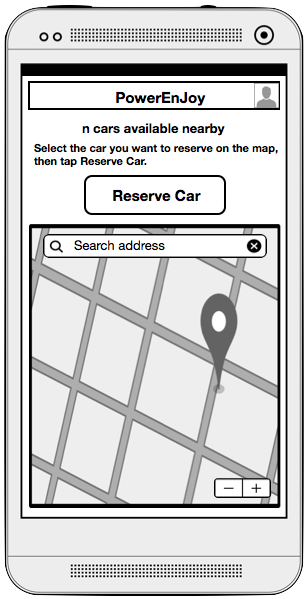
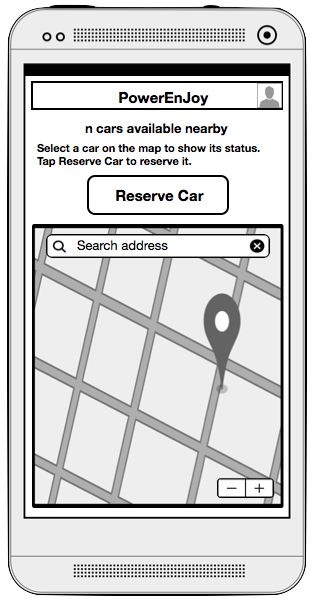
Improved consistency between Mockups and Requirements

diff --git a/RASD/4SpecificRequirements.tex b/RASD/4SpecificRequirements.tex
@@ -27,14 +27,14 @@ There are two user interfaces in our system: one for the smartphone used to acce
     \centering
     \includegraphics[scale=0.4]{{Figures/Mockup/3LoginForm.png}}
     \label{fig:3LoginForm}
-    \\Whether a user started from the map or from the first screen, he will have to either enter his credential or register. In case of forgotten credential he is given the possibility to ask for a new password too.
+    \\Whether a user started from the map or from the first screen, he will have to either enter his credentials or to register. In case of forgotten credentials he is given the possibility to ask for a new password too.
 \end{figure}
 
 \begin{figure}[p!]
     \centering
     \includegraphics[scale=0.4]{{Figures/Mockup/4CarReservationA}}
     \label{fig:4CarReservationA}
-    \\A PowerUser can look for a suitable Car nearby his position, or entering an address in the appropriate bar above the map. After finding a Car the PowerUser can reserve it.
+    \\A PowerUser can look for a suitable Car nearby his position or entering an address in the appropriate bar above the map. After finding a Car the PowerUser can reserve it.
 \end{figure}
 
 \begin{figure}[p!]
@@ -48,7 +48,7 @@ There are two user interfaces in our system: one for the smartphone used to acce
     \centering
     \includegraphics[scale=0.4]{{Figures/Mockup/5CarReserved.png}}
     \label{fig:5CarReserved}
-    \\After the selected Car has been reserved, a PowerUser can cancel his reservation or look for his Car thanks to the provided map.
+    \\After the selected Car has been reserved, a PowerUser can look for his Car thanks to the provided map or cancel his reservation. In this case a confirmation box pops up before actually cancelling it.
 \end{figure}
 
 \begin{figure}[p!]
@@ -70,14 +70,14 @@ There are two user interfaces in our system: one for the smartphone used to acce
     \centering
     \includegraphics[scale=0.4]{{Figures/Mockup/7RegistrationFormB.png}}
     \label{fig:7RegistrationFormB}
-    \\In order to stress the importance of entering real and correct data, the system reminds the user about it.
+    \\After entering persona data the user is required to provide his driving license details and to accept the Privacy Agreement.
 \end{figure}
 
 \begin{figure}[p!]
     \centering
     \includegraphics[scale=0.4]{{Figures/Mockup/7RegistrationFormC.png}}
     \label{fig:7RegistrationFormCnForm}
-    \\Last page of the registration procedure, the user is asked for his payment information. Furthermore he will have to accept the terms and conditions of the service in order to complete the registration.
+    \\Last page of the registration procedure, the user is asked for his payment information. Furthermore he has to accept the Terms and Conditions of the service in order to complete the registration. These Terms and Conditions contain all the legal constraints required by law, and ensure that any misbehaviour perpetrated by a user is his own solely responsibility and cannot be ascribed to the company running the PowerEnJoy sharing service.
 \end{figure}
 
 \begin{figure}[p!]
@@ -110,42 +110,42 @@ There are two user interfaces in our system: one for the smartphone used to acce
     \centering
     \includegraphics[scale=0.6]{{Figures/Mockup/11FirstCarScreen.png}}
     \label{fig:11FirstCarScreen}
-    \\This is the first screen a PowerUser will see when entering in a Car. The map on the left is a placeholder for the third party navigation system.
+    \\This is the first screen a PowerUser will see while entering in a Car. The map on the left is a placeholder for the third party navigation system.
 \end{figure}
 
 \begin{figure}[p!]
     \centering
     \includegraphics[scale=0.6]{{Figures/Mockup/12aCorrectDestination.png}}
     \label{fig:12aCorrectDestination}
-    \\A PowerUser searches for his destination and if it is inside the set of Safe Parking Areas he is allowed to start the navigation system.
+    \\A PowerUser searches for his destination and if it is inside the set of Safe Parking Areas he is allowed to start the navigation system. Furthermore he can enable the money saving option using "Get money saving destination", or ask for the list of the closest Special Parking Areas to his destination.
 \end{figure}
 
 \begin{figure}[p!]
     \centering
     \includegraphics[scale=0.6]{{Figures/Mockup/12bWrongDestination.png}}
     \label{fig:12bWrongDestination}
-    \\A PowerUser search for his destination and if it is not inside the set of Safe Parking Areas he is asked to look for another destination.
+    \\A PowerUser searches for his destination and if it is not inside the set of Safe Parking Areas he is asked to look for another destination. If he wants he can enable the money saving option using "Get money saving destination", or ask for the list of the closest Special Parking Areas to his destination.
 \end{figure}
 
 \begin{figure}[p!]
     \centering
     \includegraphics[scale=0.6]{{Figures/Mockup/12cMoneySavingOption.png}}
     \label{fig:12cMoneySavingOption}
-    \\When a PowerUser enables the money saving option he is provided with the address of the Special Parking Area where he is supposed to park and plug the car into the power grid.
+    \\When a PowerUser enables the money saving option he is provided with the address of the Special Parking Area where he is supposed to park and plug the car into the power grid in order to get the discount.
 \end{figure}
 
 \begin{figure}[p!]
     \centering
     \includegraphics[scale=0.6]{{Figures/Mockup/13Ride.png}}
     \label{fig:13Ride}
-    \\This is the screen the PowerUser sees while he is driving. If he needs to change the destination he is free to do that, or if he wants to know more about discounts and penalties he can tap the apposite button.
+    \\This is the screen the PowerUser sees while he is driving. If he needs to change the destination he is free to do that, if he wants to know more about discounts and penalties he can tap the apposite button, if he decides to plug the car into the power grid he can ask a money saving destination or the list of the closest Special Parking Areas to his destination.
 \end{figure}
 
-\begin{figure}[p!]
+\begin{figure}[h!]
     \centering
-    \includegraphics[scale=0.6]{{Figures/Mockup/14DIscountsAndPenalties.png}}
-    \label{fig:14DIscountsAndPenalties}
-    \\This is the screen that sums up all discounts and penalties, and it also declares explicitly which one is valid at the moment. If a PowerUser needs a more detailed description he just have to tap to show a windows containing all the details and the explanation of each discount and penalty.  
+    \includegraphics[scale=0.6]{{Figures/Mockup/14DiscountsAndPenalties.png}}
+    \label{fig:14DiscountsAndPenalties}
+    \\This is the screen that sums up all discounts and penalties, and it also declares explicitly which one is valid at the moment. If a PowerUser needs a more detailed description he just have to tap to show a window containing all the details and the explanations of each discount and penalty.  
 \end{figure}
 
 \newpage
@@ -191,7 +191,7 @@ The system relies on a third party payment service to issue payment requests, an
         \item Requirements
         \begin{enumerate}[REQ]
     		    \item Let a Visitor user start the registration wizard while he's still not logged in.
-			    \item The registration form must contain input fields for user identity, email, contact info, driving license number and expiration, privacy agreement confirmation, customer notifications and subscriptions options, credit card number and expiration, billing identity.
+			    \item The registration form must contain input fields for user identity, email, contact info, driving license number and expiration, privacy agreement confirmation, credit card number and expiration, billing identity.
 			    \item The chosen email address must not be already used by another PowerUser.
 			    \item The credit card must be verified not to be blocked or expired upon registration.
 			    \item The user must receive a system generated password to the registered email address.
@@ -392,8 +392,8 @@ The system relies on a third party payment service to issue payment requests, an
     \begin{itemize}
         \item Requirements
         \begin{enumerate}[REQ]
-    			\item While a ride destination is selected for navigation, show the PowerUser the option to get a money saving destination proposal.
-    			\item Always show to PowerUser an input to get money saving proposal even if there exists a selected destination.
+    			\item Show the PowerUser the option to get a money saving destination alternative after entering desired destination address.
+    			\item Always show to PowerUser an input to get money saving proposal even if there already exists a selected destination.
     			\item The destination proposal must correspond to the nearest (w.r.t. PowerUser selected destination) Special Parking Area where there are less than N\# Cars attached to the power source.
     			\item If the PowerUser accepts the money saving destination proposal, the current selected destination must be updated accordingly.
         \end{enumerate}
@@ -447,7 +447,7 @@ The system relies on a third party payment service to issue payment requests, an
         \begin{enumerate}[REQ]
     			\item The system must charge the PowerUser the total fare after two minutes and an half from the Car locking.
     			\item The system must issue the payment request to the payment processor provider.	
-    			\item The system must bill the PowerUser a penalty of 1$\euro$ as soon as a reservation he made expires ny timeout.
+    			\item The system must bill the PowerUser a penalty of 1$\euro$ as soon as a reservation he made expires by timeout.
     			\item The PowerUser shall be notified of any money charge by email.
     			\item The PowerUser shall be notified of the payment transaction result.
         \end{enumerate}
@@ -477,9 +477,9 @@ The system relies on a third party payment service to issue payment requests, an
 \hline
 \textbf{Output Condition} & conditionExplanation\\
 \hline
-\textbf{Exceptions} &       •   ex1.\\& 
-                            •	ex2.\\&
-                            •	ex3.\\& 
+\textbf{Exceptions} &       ?   ex1.\\& 
+                            ?	ex2.\\&
+                            ?	ex3.\\& 
                            How expections are managed.\\
 \hline
 \end{tabular} 
@@ -500,9 +500,9 @@ The system relies on a third party payment service to issue payment requests, an
 \hline
 \textbf{Output Condition} & conditionExplanation\\
 \hline
-\textbf{Exceptions} &       •   ex1.\\& 
-                            •	ex2.\\&
-                            •	ex3.\\& 
+\textbf{Exceptions} &       ?   ex1.\\& 
+                            ?	ex2.\\&
+                            ?	ex3.\\& 
                            How expections are managed.\\
 \hline
 \end{tabular} 
@@ -524,9 +524,9 @@ The system relies on a third party payment service to issue payment requests, an
 \hline
 \textbf{Output Condition} & conditionExplanation\\
 \hline
-\textbf{Exceptions} &       •   ex1.\\& 
-                            •	ex2.\\&
-                            •	ex3.\\& 
+\textbf{Exceptions} &       ?   ex1.\\& 
+                            ?	ex2.\\&
+                            ?	ex3.\\& 
                            How expections are managed.\\
 \hline
 \end{tabular} 
@@ -548,9 +548,9 @@ The system relies on a third party payment service to issue payment requests, an
 \hline
 \textbf{Output Condition} & conditionExplanation\\
 \hline
-\textbf{Exceptions} &       •   ex1.\\& 
-                            •	ex2.\\&
-                            •	ex3.\\& 
+\textbf{Exceptions} &       ?   ex1.\\& 
+                            ?	ex2.\\&
+                            ?	ex3.\\& 
                            How expections are managed.\\
 \hline
 \end{tabular} 
@@ -572,9 +572,9 @@ The system relies on a third party payment service to issue payment requests, an
 \hline
 \textbf{Output Condition} & conditionExplanation\\
 \hline
-\textbf{Exceptions} &       •   ex1.\\& 
-                            •	ex2.\\&
-                            •	ex3.\\& 
+\textbf{Exceptions} &       ?   ex1.\\& 
+                            ?	ex2.\\&
+                            ?	ex3.\\& 
                            How expections are managed.\\
 \hline
 \end{tabular} 
@@ -595,9 +595,9 @@ The system relies on a third party payment service to issue payment requests, an
 \hline
 \textbf{Output Condition} & conditionExplanation\\
 \hline
-\textbf{Exceptions} &       •   ex1.\\& 
-                            •	ex2.\\&
-                            •	ex3.\\& 
+\textbf{Exceptions} &       ?   ex1.\\& 
+                            ?	ex2.\\&
+                            ?	ex3.\\& 
                            How expections are managed.\\
 \hline
 \end{tabular} 
@@ -619,9 +619,9 @@ The system relies on a third party payment service to issue payment requests, an
 \hline
 \textbf{Output Condition} & conditionExplanation\\
 \hline
-\textbf{Exceptions} &       •   ex1.\\& 
-                            •	ex2.\\&
-                            •	ex3.\\& 
+\textbf{Exceptions} &       ?   ex1.\\& 
+                            ?	ex2.\\&
+                            ?	ex3.\\& 
                            How expections are managed.\\
 \hline
 \end{tabular} 
@@ -643,9 +643,9 @@ The system relies on a third party payment service to issue payment requests, an
 \hline
 \textbf{Output Condition} & conditionExplanation\\
 \hline
-\textbf{Exceptions} &       •   ex1.\\& 
-                            •	ex2.\\&
-                            •	ex3.\\& 
+\textbf{Exceptions} &       ?   ex1.\\& 
+                            ?	ex2.\\&
+                            ?	ex3.\\& 
                            How expections are managed.\\
 \hline
 \end{tabular} 
@@ -667,9 +667,9 @@ The system relies on a third party payment service to issue payment requests, an
 \hline
 \textbf{Output Condition} & conditionExplanation\\
 \hline
-\textbf{Exceptions} &       •   ex1.\\& 
-                            •	ex2.\\&
-                            •	ex3.\\& 
+\textbf{Exceptions} &       ?   ex1.\\& 
+                            ?	ex2.\\&
+                            ?	ex3.\\& 
                            How expections are managed.\\
 \hline
 \end{tabular} 
@@ -691,9 +691,9 @@ The system relies on a third party payment service to issue payment requests, an
 \hline
 \textbf{Output Condition} & conditionExplanation\\
 \hline
-\textbf{Exceptions} &       •   ex1.\\& 
-                            •	ex2.\\&
-                            •	ex3.\\& 
+\textbf{Exceptions} &       ?   ex1.\\& 
+                            ?	ex2.\\&
+                            ?	ex3.\\& 
                            How expections are managed.\\
 \hline
 \end{tabular} 
@@ -715,9 +715,9 @@ The system relies on a third party payment service to issue payment requests, an
 \hline
 \textbf{Output Condition} & conditionExplanation\\
 \hline
-\textbf{Exceptions} &       •   ex1.\\& 
-                            •	ex2.\\&
-                            •	ex3.\\& 
+\textbf{Exceptions} &       ?   ex1.\\& 
+                            ?	ex2.\\&
+                            ?	ex3.\\& 
                            How expections are managed.\\
 \hline
 \end{tabular} 
@@ -739,9 +739,9 @@ The system relies on a third party payment service to issue payment requests, an
 \hline
 \textbf{Output Condition} & conditionExplanation\\
 \hline
-\textbf{Exceptions} &       •   ex1.\\& 
-                            •	ex2.\\&
-                            •	ex3.\\& 
+\textbf{Exceptions} &       ?   ex1.\\& 
+                            ?	ex2.\\&
+                            ?	ex3.\\& 
                            How expections are managed.\\
 \hline
 \end{tabular} 
@@ -763,9 +763,9 @@ The system relies on a third party payment service to issue payment requests, an
 \hline
 \textbf{Output Condition} & conditionExplanation\\
 \hline
-\textbf{Exceptions} &       •   ex1.\\& 
-                            •	ex2.\\&
-                            •	ex3.\\& 
+\textbf{Exceptions} &       ?   ex1.\\& 
+                            ?	ex2.\\&
+                            ?	ex3.\\& 
                            How expections are managed.\\
 \hline
 \end{tabular} 
@@ -787,9 +787,9 @@ The system relies on a third party payment service to issue payment requests, an
 \hline
 \textbf{Output Condition} & conditionExplanation\\
 \hline
-\textbf{Exceptions} &       •   ex1.\\& 
-                            •	ex2.\\&
-                            •	ex3.\\& 
+\textbf{Exceptions} &       ?   ex1.\\& 
+                            ?	ex2.\\&
+                            ?	ex3.\\& 
                            How expections are managed.\\
 \hline
 \end{tabular} 
@@ -811,9 +811,9 @@ The system relies on a third party payment service to issue payment requests, an
 \hline
 \textbf{Output Condition} & conditionExplanation\\
 \hline
-\textbf{Exceptions} &       •   ex1.\\& 
-                            •	ex2.\\&
-                            •	ex3.\\& 
+\textbf{Exceptions} &       ?   ex1.\\& 
+                            ?	ex2.\\&
+                            ?	ex3.\\& 
                            How expections are managed.\\
 \hline
 \end{tabular} 
@@ -835,9 +835,9 @@ The system relies on a third party payment service to issue payment requests, an
 \hline
 \textbf{Output Condition} & conditionExplanation\\
 \hline
-\textbf{Exceptions} &       •   ex1.\\& 
-                            •	ex2.\\&
-                            •	ex3.\\& 
+\textbf{Exceptions} &       ?   ex1.\\& 
+                            ?	ex2.\\&
+                            ?	ex3.\\& 
                            How expections are managed.\\
 \hline
 \end{tabular} 
@@ -859,9 +859,9 @@ The system relies on a third party payment service to issue payment requests, an
 \hline
 \textbf{Output Condition} & conditionExplanation\\
 \hline
-\textbf{Exceptions} &       •   ex1.\\& 
-                            •	ex2.\\&
-                            •	ex3.\\& 
+\textbf{Exceptions} &       ?   ex1.\\& 
+                            ?	ex2.\\&
+                            ?	ex3.\\& 
                            How expections are managed.\\
 \hline
 \end{tabular} 
@@ -883,9 +883,9 @@ The system relies on a third party payment service to issue payment requests, an
 \hline
 \textbf{Output Condition} & conditionExplanation\\
 \hline
-\textbf{Exceptions} &       •   ex1.\\& 
-                            •	ex2.\\&
-                            •	ex3.\\& 
+\textbf{Exceptions} &       ?   ex1.\\& 
+                            ?	ex2.\\&
+                            ?	ex3.\\& 
                            How expections are managed.\\
 \hline
 \end{tabular} 

diff --git a/RASD/1Introduction.tex b/RASD/1Introduction.tex
@@ -17,7 +17,7 @@ This document contains a description of what the digital management system has t
 \subsubsection{Definitions}
 \begin{itemize}
 \item \textbf{Car:} every vehicle, which respects the requirements, that the system allows the users to use.
-\item \textbf{PowerEnJoy:} name of the system under development.
+\item \textbf{PowerEnJoy:} actually the name of the service for which management software to be developed is described in this document; we are going to use this name from now on referring to the software application itself instead of the service. Also referred to from now on as 'system' or 'platform'.
 \item \textbf{PowerUser:} user who has already registered to the service and is currently logged in.
 \item \textbf{Safe Parking Area:} pre-defined areas (i.e. streets) where a user is allowed to park.
 \item \textbf{Service Back-end Logic:} software logic of the service the user do not directly interact with. 
